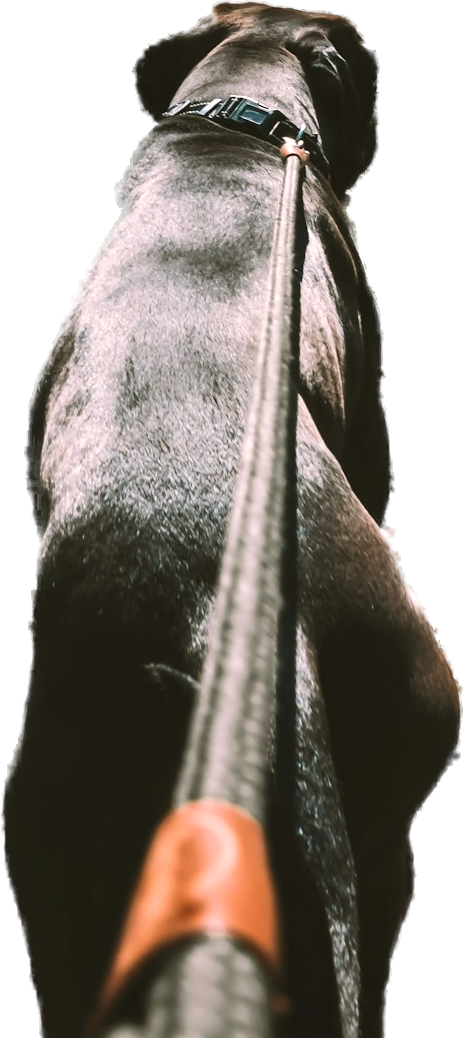
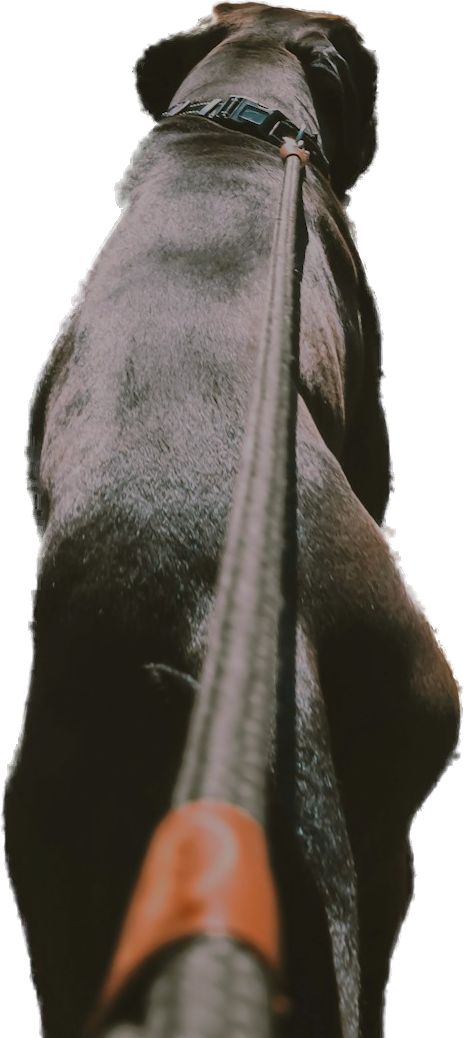
fix: cachorra afundada abaixo da borda e com o pelo fosco

diff --git a/src/components/passeio/Passeio.tsx b/src/components/passeio/Passeio.tsx
@@ -143,14 +143,15 @@ export function Passeio() {
         ))}
 
         {/* a cachorra: a mesma em todo o passeio, fixa no centro como a proa do barco; só o mundo troca */}
-        <div className="pointer-events-none absolute bottom-0 left-1/2 h-[54svh] -translate-x-1/2 max-md:h-[48svh]">
+        {/* afundada abaixo da borda: o recorte nunca aparece, nem no alto do balanço */}
+        <div className="pointer-events-none absolute -bottom-[12svh] left-1/2 h-[60svh] -translate-x-1/2 max-md:h-[54svh]">
           <div ref={passo} className="h-full origin-bottom will-change-transform">
             <Image
               src={cachorra}
               alt={altCachorra}
               preload
               sizes="(max-width: 768px) 60vw, 30vw"
-              className="h-full w-auto motion-safe:animate-[respira_3.6s_ease-in-out_infinite] origin-bottom"
+              className="h-full w-auto origin-bottom saturate-[0.85] motion-safe:animate-[respira_3.6s_ease-in-out_infinite]"
             />
           </div>
         </div>

diff --git a/scripts/preparar-passeio.py b/scripts/preparar-passeio.py
@@ -37,6 +37,11 @@ def cachorra():
     t = np.clip(lum / 0.6, 0, 1)[..., None]
     tom = np.array([0.20, 0.21, 0.30]) * (1 - t) + np.array([1.0, 0.86, 0.76]) * t
     rgb = np.clip(rgb * 0.82 + tom * rgb * 0.3, 0, 1)
+    # pelo fosco: o brilho especular da foto original não combina com a luz difusa dos fundos
+    lum = (rgb @ np.array([0.2126, 0.7152, 0.0722]))[..., None]
+    joelho = 0.3
+    alvo = np.where(lum > joelho, joelho + (lum - joelho) * 0.5, lum)
+    rgb = np.clip(rgb * alvo / np.maximum(lum, 1e-4), 0, 1)
     saida = Image.fromarray((rgb * 255).astype(np.uint8)).convert("RGBA")
     saida.putalpha(im.getchannel("A"))
     saida.thumbnail((900, 2000), Image.LANCZOS)
